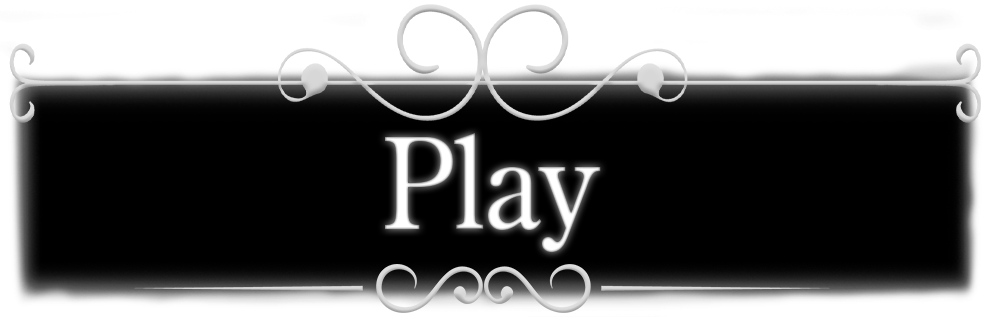
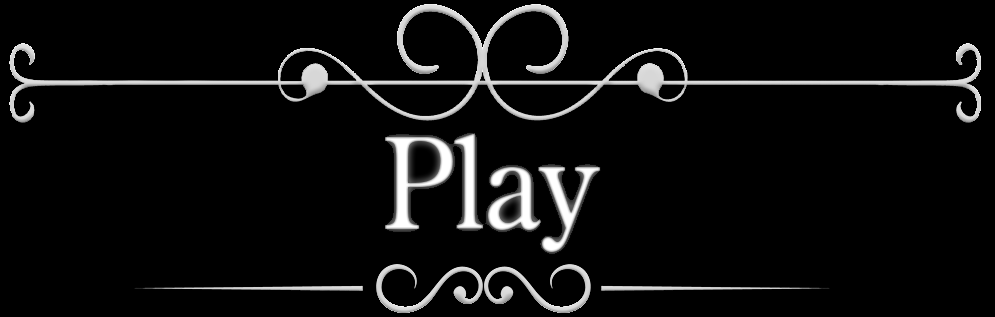
que des debiles

diff --git a/Script/game.py b/Script/game.py
@@ -1,12 +1,13 @@
 import sys
 import pygame
+import math
 
 from entity import Player, Enemy
 from ground import Ground
 from plateforme import Plateforme
 from obscurity import Obscurity
 from sounds import SoundManager
-from menu import CreateMenu
+from menu import *
 from tilemap import Tilemap
 from utils import load_images, load_image
 from Constants import *
@@ -44,7 +45,10 @@ class Game:
             'recess_alternative': load_images('tiles/recess/alternatif', size=(64, 64)),
             'recess_normal': load_images('tiles/recess/normal', size=(64, 64)),
             'player': load_images('tiles/recess/normal'),
-            'decoration': load_images('tiles/decoration', size=(64, 64))
+            'decoration': load_images('tiles/decoration', size=(64, 64)),
+            'cathedral': load_images('tiles/cathedral', size=(64, 64)),
+            'pillar': load_images('tiles/pillar', size=(100, 250)),
+            'ground_floor': load_images('tiles/ground_floor', size=(64, 64))
         }
 
         # Generate player
@@ -66,6 +70,12 @@ class Game:
 
         self.tilemap = Tilemap(self, tile_size=64)
         self.tilemap.load("Script/map.json")
+
+        self.tilemap2 = Tilemap(self, tile_size=64)
+        self.tilemap2.load("Script/map2.json")
+
+        self.tilemap3 = Tilemap(self, tile_size=64)
+        self.tilemap3.load("Script/map3.json")
 
         self.scroll = [0, 0]
 
@@ -107,11 +117,29 @@ class Game:
         self.transparent_surface = pygame.Surface((100, 100), pygame.SRCALPHA)
         pygame.draw.rect(self.transparent_surface, (0, 0, 0, 0), self.transparent_surface.get_rect())
 
+        # Cube for pass to level 3
+        self.cube2 = pygame.Rect(1000, 700, 100, 100)
+        self.transparent_surface = pygame.Surface((100, 100), pygame.SRCALPHA)
+        pygame.draw.rect(self.transparent_surface, (0, 0, 0, 0), self.transparent_surface.get_rect())
+
     def transparent_cube(self):
         # Check if player and cube collides
         if self.player.rect.colliderect(self.cube):
             self.menu.current_screen = "level_2"
+            self.tilemap2.render(self.background_4)
+            self.player.position = [100, 100]  # Change les valeurs en fonction de là ou tu veux que le joueur soit (t'es pas con je le sais mais je dis quand même)
+
+        elif self.player.rect.colliderect(self.cube2):
+            self.menu.current_screen = "level_3"
+            self.tilemap3.render(self.background_4)
             self.player.position = [100, 100]
+
+        # J'ai pas testé si c'était bon parce que j'ai plus le perso mais normalement ça devrait être bon
+        # Et du coup pour faire les zones où on meurt dans le vide t'as juste à créer des zones de collisions et que tu meurs dedans genre
+        if self.menu.current_screen == "play_fr" or self.menu.current_screen == "play_en":
+            self.screen.blit(self.transparent_surface, self.cube)
+        elif self.menu.current_screen == "level_2":
+            self.screen.blit(self.transparent_surface, self.cube2)
 
         self.screen.blit(self.transparent_surface, self.cube)
 

diff --git a/Script/menu.py b/Script/menu.py
@@ -122,6 +122,8 @@ class CreateMenu:
 
         # Current screen
         self.current_screen = "main_fr"
+        # Title
+        self.titre = pygame.image.load("Assets/Menu/Title.png")
 
         # Menus
         self.main_fr_menus = pygame.sprite.Group()
@@ -157,16 +159,20 @@ class CreateMenu:
 
     def load_different_screens(self):
         if self.current_screen == "main_fr":
+            self.game.screen.fill((0, 0, 0))
             self.game.screen.blit(self.game.background, (0, 0))
             self.main_fr_menus.draw(self.game.screen)
+            self.game.screen.blit(self.titre, (430, 50))
 
         elif self.current_screen == "settings_fr":
             self.game.screen.blit(self.game.background_2, (0, 0))
             self.settings_fr_menus.draw(self.game.screen)
 
         elif self.current_screen == "main_en":
+            self.game.screen.fill((0, 0, 0))
             self.game.screen.blit(self.game.background, (0, 0))
             self.main_en_menus.draw(self.game.screen)
+            self.game.screen.blit(self.titre, (430, 50))
 
         elif self.current_screen == "settings_en":
             self.game.screen.blit(self.game.background_3, (0, 0))
@@ -175,11 +181,27 @@ class CreateMenu:
         elif self.current_screen == "play_fr" or self.current_screen == "play_en":
             self.game.screen.blit(self.game.background, (0, 0))
             self.game.draw()
+            self.game.player.Update(self.game.tilemap, self.game.movement, self.game.player_should_jump,
+                                    self.game.delta_time,
+                                    self.game.plateformes_rect_rect)
+            self.game.update()
+            self.game.transparent_cube()
             #self.game.transparent_cube()
 
         elif self.current_screen == "level_2":
             self.game.screen.blit(self.game.background_4, (0, 0))
             self.game.draw()
+            self.game.player.Update(self.game.tilemap2, self.game.movement, self.game.player_should_jump,
+                                    self.game.delta_time,
+                                    self.game.plateformes_rect_rect)
+            self.game.update()
+
+        elif self.current_screen == "level_3":
+            self.game.screen.blit(self.game.background_4, (0, 0))
+            self.game.player.Update(self.game.tilemap3, self.game.movement, self.game.player_should_jump,
+                                    self.game.delta_time,
+                                    self.game.plateformes_rect_rect)
+            self.game.update()
 
     def choice_menus(self, event):
         if self.current_screen == "main_fr":

diff --git a/Script/entity.py b/Script/entity.py
@@ -74,7 +74,9 @@ class Player(Entity):
     def __init__(self, game, pos, width, height):
         super().__init__(pos, game)
 
-        self.original_image = pygame.image.load(WALK_ANIM[0]).convert_alpha()
+        # Information about player
+        self.var_anim = 0
+        self.original_image = pygame.image.load(WALK_ANIM[self.var_anim]).convert_alpha()
         self.image = pygame.transform.scale(self.original_image, (width, height))
         self.original_image = pygame.transform.scale(self.original_image, (width, height))
         self.rect = self.image.get_rect(midbottom=self.position)
@@ -82,7 +84,6 @@ class Player(Entity):
         self.bigger_rect.inflate_ip(30, 30)
         self.jump_force = -540
         self.velocity = (200, 0)
-
     def check_collisions(self, group):
         for other_sprite in group:
             if self != other_sprite and pygame.sprite.collide_rect(self, other_sprite):

diff --git a/Script/editor.py b/Script/editor.py
@@ -30,6 +30,9 @@ class Editor:
             'platform': load_images('tiles/platform', size=(250, 250)),
             'recess_alternative': load_images('tiles/recess/alternatif', size=(64, 64)),
             'recess_normal': load_images('tiles/recess/normal', size=(64, 64)),
+            'cathedral': load_images('tiles/cathedral', size=(64, 64)),
+            'pillar': load_images('tiles/pillar', size=(100, 250)),
+            'ground_floor': load_images('tiles/ground_floor', size=(64, 64))
         }
 
         self.movement = [False, False, False, False]
